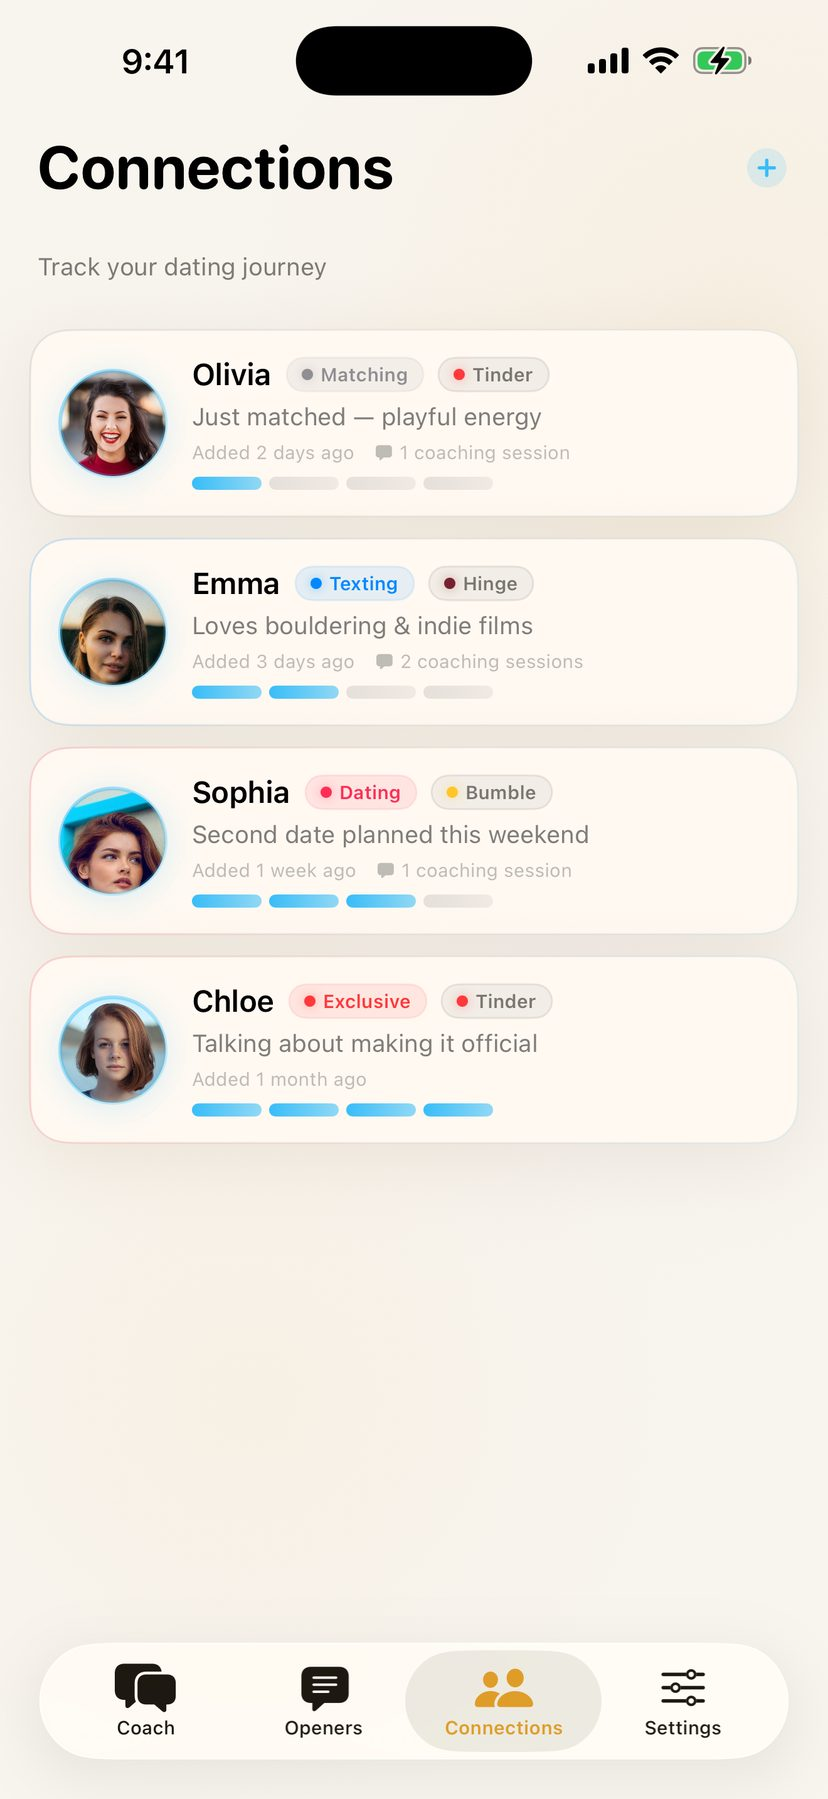
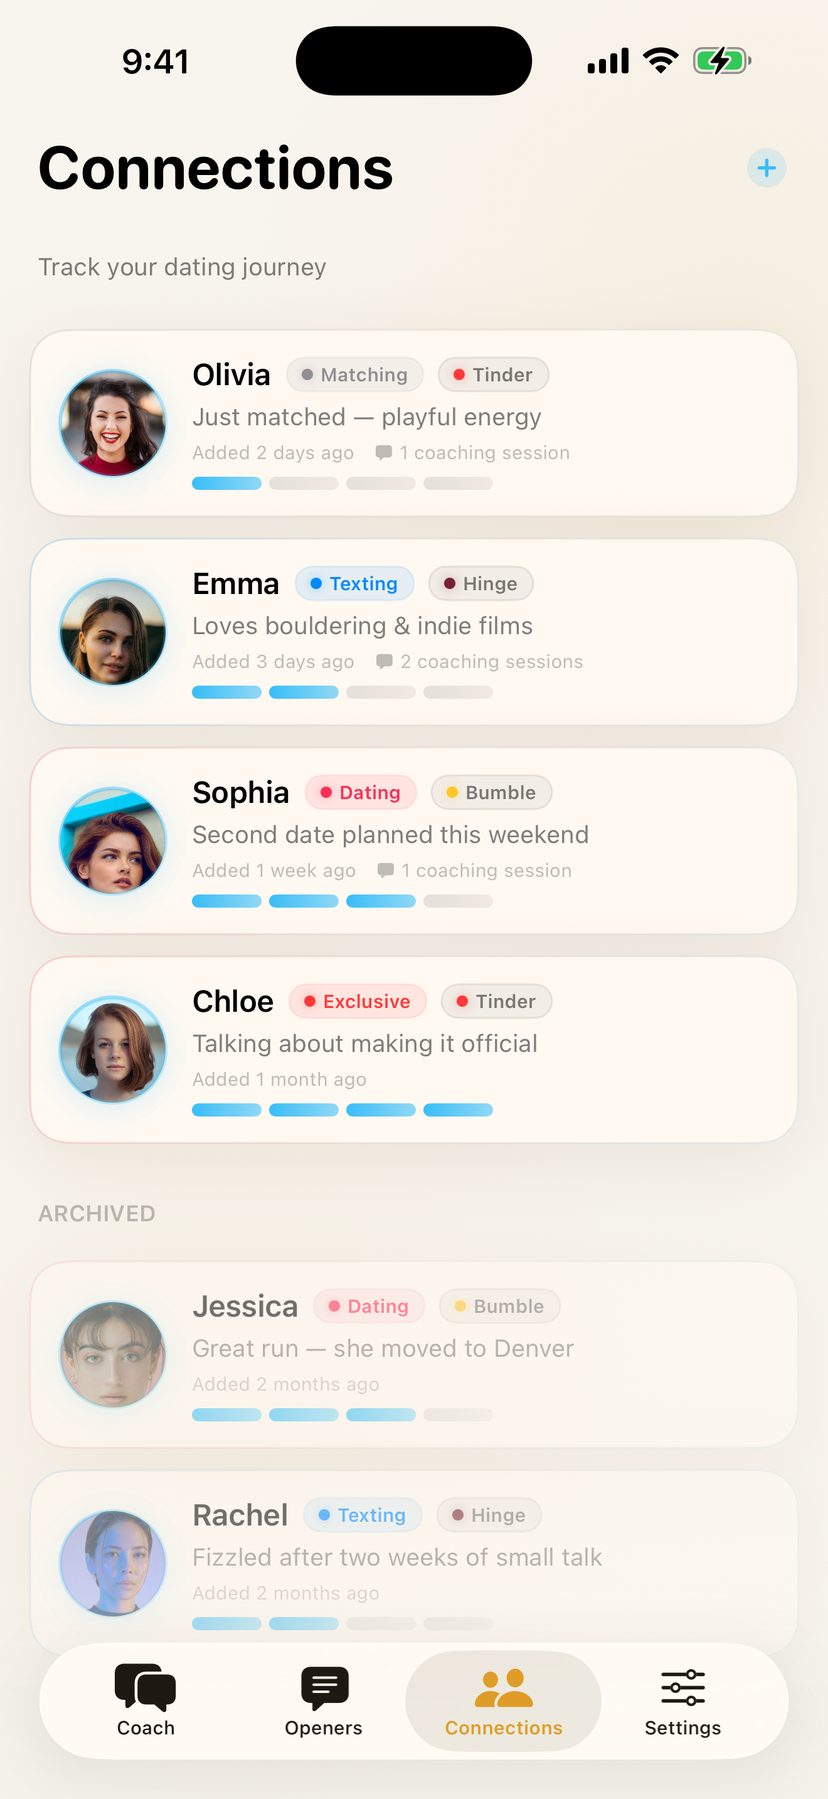
Connections list shows the full lifecycle: archived section with Jessica & Rachel
Two archived connections (Jessica/Bumble — moved away, Rachel/Hinge — fizzled) faded at the bottom of the list in dark + light shots, so the app reads lived-in. Cache-bust v7.

diff --git a/index.html b/index.html
@@ -620,7 +620,7 @@
                 <img src="assets/screens/screen-openers.jpg?v=6" alt="The opener vault — saved openers organized by every platform: Tinder, Hinge, Bumble, and Texting, each one tap-to-copy." data-caption="Your opener vault, always ready">
                 <img src="assets/screens/screen-analyze.jpg?v=4" alt="Drop a screenshot of the conversation and Ava breaks down the signals — who's driving the thread and what the reply gap really means." data-caption="Reads your screenshots">
                 <img src="assets/screens/screen-coaches.jpg?v=6" alt="Four coaches — Marcus, Jade, Eli, and Ava — each with a different perspective on your situation." data-caption="Four coaches, four perspectives">
-                <img src="assets/screens/screen-connections.jpg?v=5" alt="Connections — track everyone you're talking to, from matching to exclusive, with coaching for each." data-caption="Track every connection">
+                <img src="assets/screens/screen-connections.jpg?v=7" alt="Connections — track everyone you're talking to, from matching to exclusive, with an archived section for the ones that ran their course." data-caption="Track every connection">
                 <img src="assets/screens/screen-settings.jpg?v=4" alt="Settings — switch active coach, adjust coaching tone between Gentle and Direct, and set dating experience level." data-caption="Tune your experience">
               </div>
             </div>
@@ -813,7 +813,7 @@
 
         <div class="theme-card light">
           <div class="device">
-            <div class="screen"><img src="assets/screens/screen-connections-light.jpg?v=5" alt="The Connections list — Olivia, Emma, Sophia, and Chloe with platform badges, stages from Matching to Exclusive, quick context, and coaching-session counts" loading="lazy"></div>
+            <div class="screen"><img src="assets/screens/screen-connections-light.jpg?v=7" alt="The Connections list — Olivia, Emma, Sophia, and Chloe with platform badges and stages from Matching to Exclusive, plus archived connections Jessica and Rachel faded at the bottom" loading="lazy"></div>
           </div>
           <div class="theme-badge">Every connection, one list</div>
         </div>
